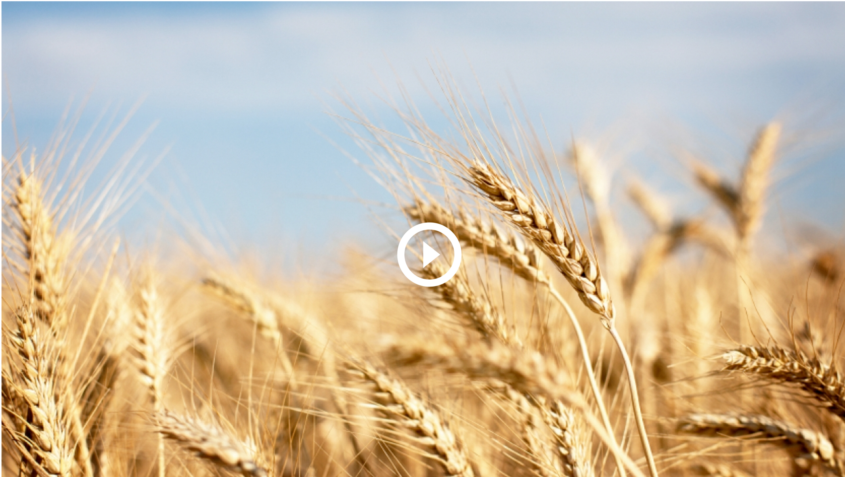
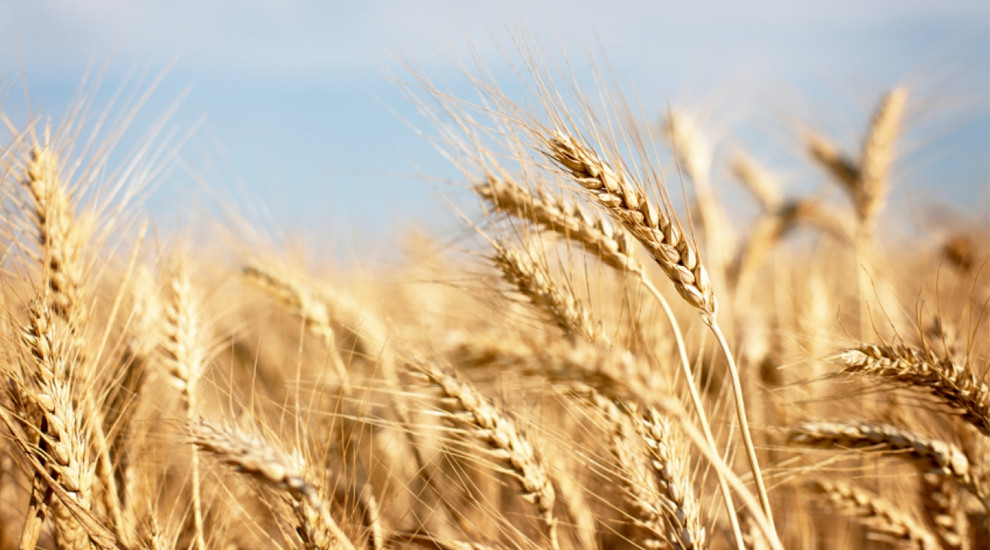
full-video component

diff --git a/src/components/videos/js/videos.js b/src/components/videos/js/videos.js
@@ -1,0 +1,52 @@
+var INFORMA = window.INFORMA || {};
+INFORMA.videos = (function(window, $, namespace) {
+    'use strict';
+    //variables
+    var _videoFullWrapper = $('.video-img'),
+        _videoPlayBtnWrapper = $('.play-icon'),
+        video,
+        // methods
+        init,
+        _playFullVideoWrapper,
+        _playFullVideoBtnWrapper;
+
+    _playFullVideoBtnWrapper = function() {
+        _videoPlayBtnWrapper.click(function() {
+            var videoImg = $(this).parent().find('img');
+            if (videoImg.attr('data-videotype') == "youtube") {
+                video = '<iframe width="100%" src="' +  videoImg.attr('data-videourl') + '" frameborder="0" allowfullscreen></iframe>';
+            } else if (videoImg .attr('data-videotype') == "vimeo") {
+                video = '<iframe width="100%" src="' +  videoImg.attr('data-videourl') + '" frameborder="0" allowfullscreen></iframe>';
+            } else if (videoImg.attr('data-videotype') == "wistia") {
+                video = '<iframe width="100%" src="' +  videoImg.attr('data-videourl') + '" frameborder="0" allowfullscreen></iframe>';
+            }
+            videoImg.replaceWith(video);
+            $(this).remove();
+        });
+    }
+
+    _playFullVideoWrapper = function() {
+        _videoFullWrapper.click(function() {
+
+            if ($(this).attr('data-videotype') == "youtube") {
+                video = '<iframe width="100%" height="' + $(this).attr('height') + '" src="' + $(this).attr('data-videourl') + '" frameborder="0" allowfullscreen></iframe>';
+            } else if ($(this).attr('data-videotype') == "vimeo") {
+                video = '<iframe width="100%" height="' + $(this).attr('height') + '" src="' + $(this).attr('data-videourl') + '" frameborder="0" allowfullscreen></iframe>';
+            } else if ($(this).attr('data-videotype') == "wistia") {
+                video = '<iframe width="100%" height="' + $(this).attr('height') + '" src="' + $(this).attr('data-videourl') + '" frameborder="0" allowfullscreen></iframe>';
+            }
+            $(this).replaceWith(video);
+            $('.play-icon').remove();
+        });
+    }
+
+    init = function() {
+        _playFullVideoWrapper();
+        _playFullVideoBtnWrapper();
+    };
+
+    return {
+        init: init
+    };
+}(this, jQuery, 'INFORMA'));
+jQuery(INFORMA.videos.init());

diff --git a/src/components/videos/sass/_video-full.scss b/src/components/videos/sass/_video-full.scss
@@ -1,0 +1,41 @@
+.informa-full-video-component {
+    margin-top: 20px;
+    .video-full-container {
+        //max-height: 750px;
+        cursor: pointer;
+        overflow: hidden;
+        position: relative;
+        margin-bottom: 20px;
+        img {
+            width: 100%;
+            max-width: 100%;
+            float: none;
+            display: block;
+        }
+        .video-img {
+            height: 550px;
+        }
+        .play-icon {
+            position: absolute;
+            width: 90px;
+            height: 90px;
+            background: url("/Static/images/video-icon.png") no-repeat;
+            top: 50%;
+            left: 50%;
+            margin-top: -27px;
+            margin-left: -27px;
+            @include tablet {
+                width: 80px;
+                height: 80px;
+            }
+            @include mobile {
+                width: 50px;
+                height: 5px;
+            }
+        }
+    }
+
+    .embed-responsive.embed-responsive-16by9{
+      padding-bottom: 48.25%;
+    }
+}

diff --git a/src/sass/component.scss b/src/sass/component.scss
@@ -43,4 +43,5 @@
 @import "help-faqs/sass/help-faqs";
 @import "videos/sass/videos";
 @import "resource-page-filter/sass/resource-filter";
+@import "videos/sass/video-full";
 //@import "diagnostic";
